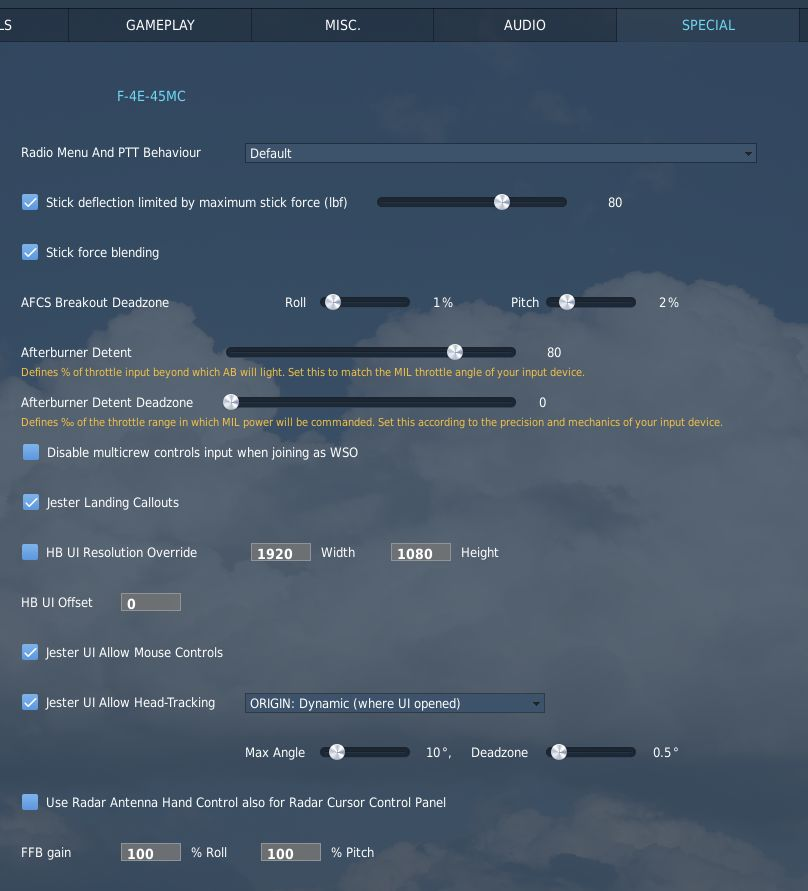
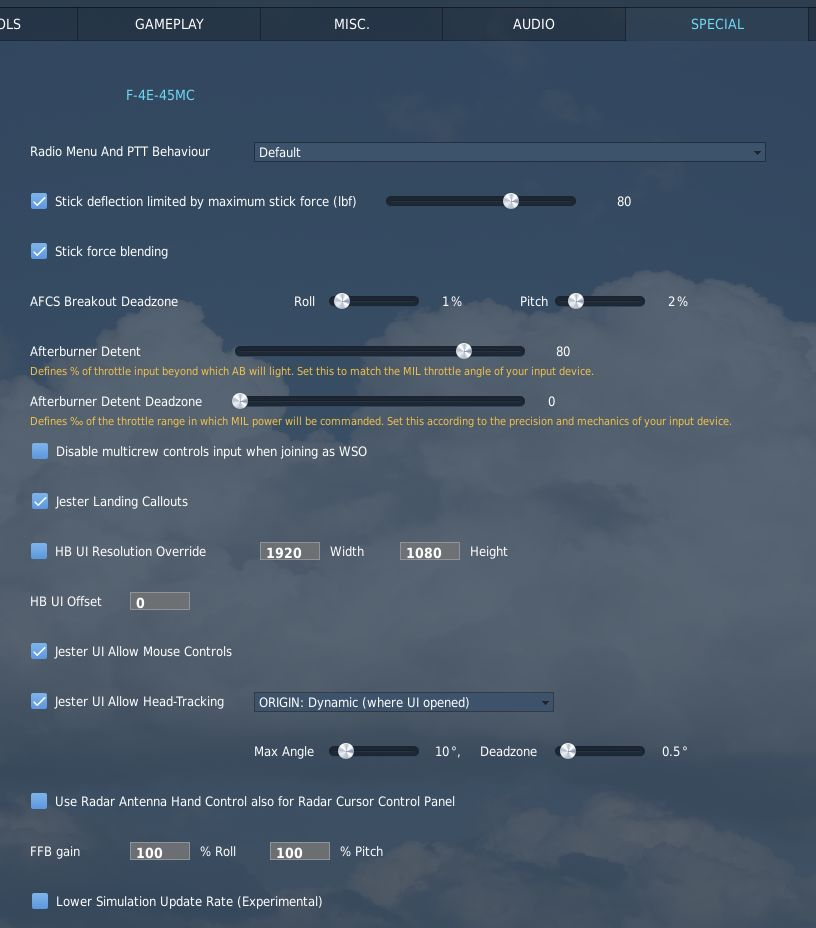
added special option to lower sim update rate

diff --git a/src/dcs/special_options.md b/src/dcs/special_options.md
@@ -70,8 +70,8 @@ will temporarily disable the pitch attitude hold as well altitude hold.
 
 Default values are 1% for roll and 2% for pitch.
 
-> 💡 To check wheter the breakout is currently activated you can use the controls
-indicator and look for the text below it.
+> 💡 To check wheter the breakout is currently activated you can use the
+> controls indicator and look for the text below it.
 
 For more info see
 [Force Transducer](../systems/flight_controls_gear/flight_controls.md#force-transducer).
@@ -207,3 +207,16 @@ gain of the forces per axis.
 
 The default setting is 100% for Roll and Pitch axis. Greater values will
 increase the force used by the stick, while smaller values will decrease it.
+
+## Lower Simulation Update Rate
+
+This **experimental option** allows reducing the update rate of the majority of
+the planes components.
+
+Doing so may reduce the stress on the CPU, improving game performance for
+machines that are bottlenecked by their CPU.
+
+However, it can also result in not only visual cuts, such as animations running
+slower, but will also cause some systems to degrade. For example the Pave Spike,
+running slower, can not update its ground stabilization algorithm fast enough
+anymore. So ticking this option can cause issues and lead to bugs.
